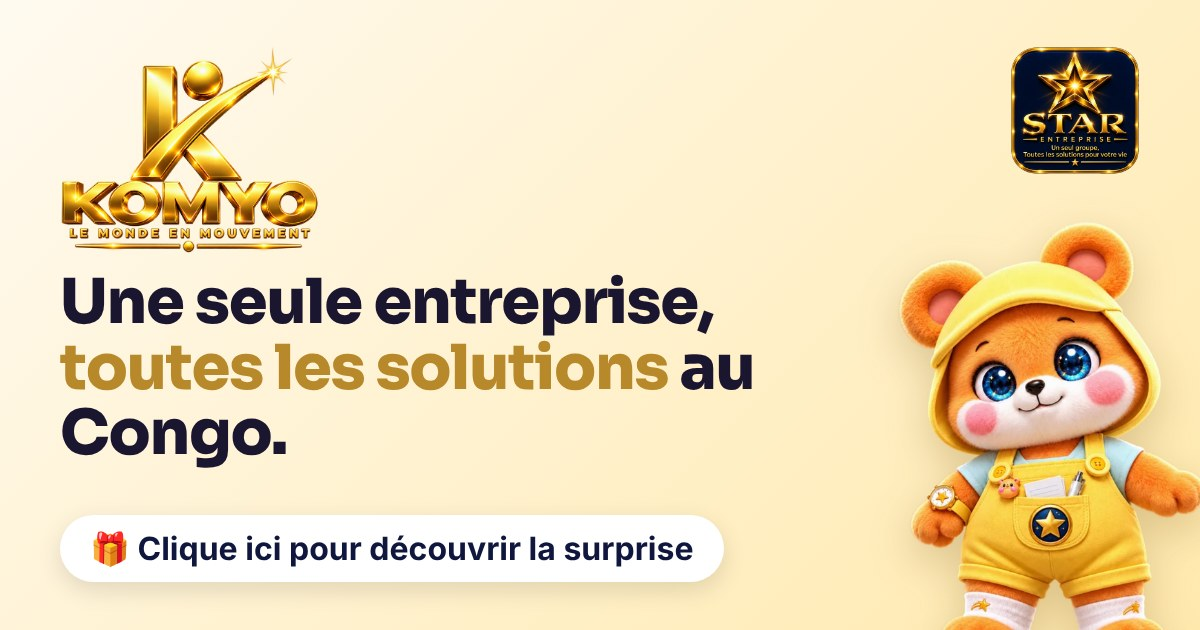
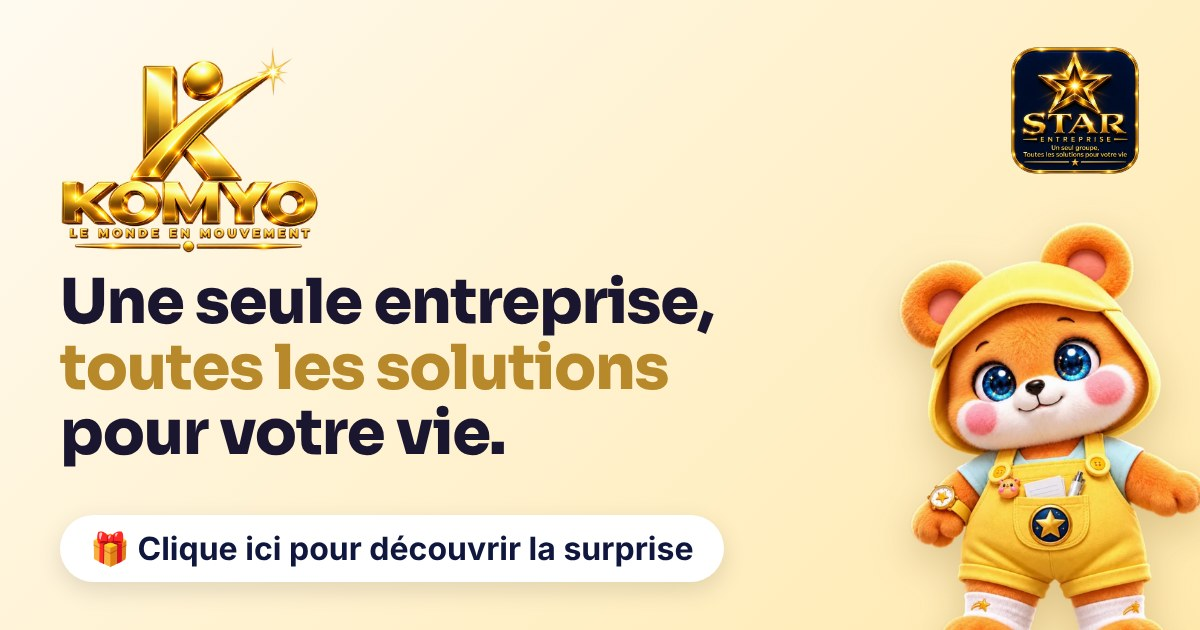
Affiche et page de partage : « Une seule entreprise, toutes les solutions pour votre vie »
Claude-Session: https://claude.ai/code/session_01E6FpdmevGXTi1RN5dnNTRb

Changed region(s): [[0.0308, 0.6333, 0.4317, 0.754], [0.555, 0.5429, 0.6475, 0.6333]]

diff --git a/starvibe/bienvenue.html b/starvibe/bienvenue.html
@@ -8,7 +8,7 @@
 <meta property="og:type" content="website">
 <meta property="og:site_name" content="STAR ENTREPRISE">
 <meta property="og:title" content="🎁 Clique ici pour découvrir la surprise">
-<meta property="og:description" content="STAR ENTREPRISE : une seule entreprise, toutes les solutions au Congo. Découvre aussi KOMYO, le nouveau réseau social pour tous.">
+<meta property="og:description" content="STAR ENTREPRISE : une seule entreprise, toutes les solutions pour votre vie. Découvre aussi KOMYO, le nouveau réseau social pour tous.">
 <meta property="og:url" content="https://komyo.starentreprise.com/bienvenue">
 <meta property="og:image" content="https://komyo.starentreprise.com/starvibe/assets/img/partage-star-komyo.jpg">
 <meta property="og:image:width" content="1200">
@@ -41,7 +41,7 @@ a:focus-visible{outline:3px solid #1b66ff;outline-offset:3px}
 <body>
 <main>
   <div class="logos"><img class="k" src="assets/img/komyo-logo-officiel.png" alt="KOMYO, le monde en mouvement"></div>
-  <h1>Une seule entreprise, <b>toutes les solutions</b> au Congo.</h1>
+  <h1>Une seule entreprise, <b>toutes les solutions</b> pour votre vie.</h1>
   <p class="lead">🎁 Voici la surprise : choisis où tu veux aller.</p>
   <a class="btn site" href="https://www.starentreprise.com" rel="noopener">
     <span class="ic"><svg width="30" height="30" viewBox="0 0 24 24" fill="none" stroke="#fff" stroke-width="1.8" aria-hidden="true"><circle cx="12" cy="12" r="9.5"/><ellipse cx="12" cy="12" rx="4.2" ry="9.5"/><path d="M2.5 12h19"/></svg></span>
